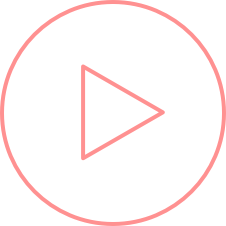
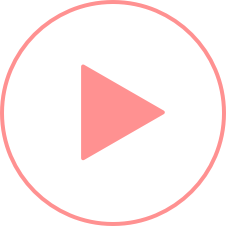
Added full javascript functionality and tweaked design (CSS) a little bit
Possible to do next:
- Fix video to pause
- Add a drop magnet and play from it

Changed region(s): [[0.3717, 0.3097, 0.7124, 0.6814]]

diff --git a/www/js/index.js b/www/js/index.js
@@ -4,41 +4,62 @@ var WebTorrent = require('webtorrent');
 var dragDrop = require('drag-drop');
 
 // Create a Torrent client
-var webTorrent = new WebTorrent();
+//var webTorrent = new WebTorrent();
 
 // Setup the menu
 var cardList = document.querySelectorAll('.card');
+var playBtn = document.querySelector('.play-btn');
 var close = document.querySelector('.close');
 
-const videoPlayer = document.querySelector('video');
 
+
+// Scripts
+
+
+
+// Runs a loop of the cards and gets an array
 for (let card of cardList) {
 
-    var cardClick = card.addEventListener('click', (event) => {
+    playBtn.addEventListener('click', (event) => {
 
-        console.log('Start torrent process')
-
-        // If video is active, return out of function
-        if (card.isActive) {
-            close.addEventListener('click', function ()  {
-                console.log('Close video player');
+        // If the player is visible, the closing button will appear
+        //if (card.isActive) {
+        //    return;
+        // }
+        /* else {
+            // Sets the display of close and the appended video of none
+            close.addEventListener('click', function () {
+                console.log('Close this shit and pause')
+                document.querySelector('video').pause();
+                close.style.display = 'none';
+                // document.querySelector('video').style.display = 'none';
             })
+        } */
 
-            return;
-        }
+        // card.isActive = true;
 
-        var video = document.querySelector('video');
-
-        card.isActive = true;
-
-
+        // Selects the custom magnet attribute and starts the playTorrent function
         var magnet = card.getAttribute('ht-magnet');
         playTorrent(magnet, card);
     });
 };
 
-function playTorrent(magnet, target) {
 
+
+/*
+function playerLoaded() {
+    
+    if(video === paused) {
+        resumeVideoPlaying(); //DERP
+    }
+}
+*/
+
+// Starts the function to convert a magnet to a .mp4 file and ready to stream directly
+function playTorrent(magnet, target) {
+    
+    var webTorrent = new WebTorrent();
+    
     webTorrent.add(magnet, function (torrent) {
 
         // Torrents can contain many files. Let's use the .mp4 file
@@ -46,57 +67,29 @@ function playTorrent(magnet, target) {
             return file.name.endsWith('.mp4');
         });
 
-        if (target.isActive) {
-            console.log('Close appears');
-            close.classList.toggle('hidden');
-        }
-
-        setInterval(function () {
-            var dlProgress = (torrent.downloaded / 1024);
-            var dlProgress = (dlProgress / 1024);
-            var dlProgress = dlProgress.toFixed(1);
-            console.log(dlProgress + ' megabyte is downloaded');
-        }, 1000);
-
-        console.log('Movie playing');
-
+        // Appends a file to the video player and sets the video player display to relative
         file.appendTo(target);
+        
+        console.log('Movie is playing');
+        
+        close.classList.toggle('hidden');
+        close.addEventListener('mousedown', () => {
+            var video = target.querySelector('video');
+            if(video != null) {
+                video.parentNode.removeChild(video);
+                close.classList.toggle('hidden');
+                console.log('Movie has stopped playing');
+            }
+        });
     });
 };
 
 
 
-close.addEventListener('click', function () {
-
-    console.log('Close this shit');
-
-})
-
-
 // Allow drag and drop function to the client
-var uploadCard = document.querySelector('.upload-card');
-
-// When user drops files on the browser, create a new torrent and start seeding it!
+// When a user drops files in the div, it creates a magnet URI and starts to seed it
 dragDrop('.upload-card', function (files) {
     webTorrent.seed(files, function (torrent) {
         document.querySelector('h3').innerHTML = "Here is your magnet link:" + '<br>' + '<br>' + torrent.magnetURI;
     })
 })
-
-
-/*
-
-// Add functions to pause and play video
-var videoPlayer = document.querySelector('video');
-
-function pauseVideo()  {
-    console.log('Video is paused');
-    videoPlayer.pause();
-}
-
-function playVideo()  {
-    videoPlayer.play();
-    console.log('Video is resumed');
-}
-
-*/

diff --git a/www/index.html b/www/index.html
@@ -20,6 +20,9 @@
 
 
             <div class="card sintel" ht-magnet="magnet:?xt=urn:btih:08ada5a7a6183aae1e09d831df6748d566095a10&dn=Sintel&tr=udp%3A%2F%2Fexplodie.org%3A6969&tr=udp%3A%2F%2Ftracker.coppersurfer.tk%3A6969&tr=udp%3A%2F%2Ftracker.empire-js.us%3A1337&tr=udp%3A%2F%2Ftracker.leechers-paradise.org%3A6969&tr=udp%3A%2F%2Ftracker.opentrackr.org%3A1337&tr=wss%3A%2F%2Ftracker.btorrent.xyz&tr=wss%3A%2F%2Ftracker.fastcast.nz&tr=wss%3A%2F%2Ftracker.openwebtorrent.com&ws=https%3A%2F%2Fwebtorrent.io%2Ftorrents%2F&xs=https%3A%2F%2Fwebtorrent.io%2Ftorrents%2Fsintel.torrent">
+                <div class="card-hover-overlay"></div>
+
+                <div class="play-btn"></div>
 
                 <div class="close hidden"></div>
 
@@ -35,15 +38,19 @@
                     <!-- <span class="file-size">356 MB</span> -->
 
                 </div>
+
+
             </div>
 
 
 
             <div class="card interstellar" ht-magnet="magnet:?xt=urn:btih:89599BF4DC369A3A8ECA26411C5CCF922D78B486&dn=Interstellar+%282014%29+%5B1080p%5D+%5BYTS.AG%5D&tr=udp%3A%2F%2Fglotorrents.pw%3A6969%2Fannounce&tr=udp%3A%2F%2Ftracker.openbittorrent.com%3A80&tr=udp%3A%2F%2Ftracker.coppersurfer.tk%3A6969&tr=udp%3A%2F%2Ftracker.leechers-paradise.org%3A6969&tr=udp%3A%2F%2Fp4p.arenabg.ch%3A1337&tr=udp%3A%2F%2Ftracker.internetwarriors.net%3A1337">
 
-                <div class="close hidden"></div>
+                <div class="card-hover-overlay"></div>
 
                 <div class="play-btn"></div>
+
+                <div class="close hidden"></div>
 
                 <div class="movie-info">
                     <h2>Movie</h2>
@@ -62,6 +69,10 @@
 
 
             <div class="card warcraft" ht-magnet="magnet:?xt=urn:btih:1B5AD195A79DFC49DA7876BDBA4D22274E1BCAB7&dn=Warcraft+%282016%29+%5B1080p%5D+%5BYTS.AG%5D&tr=udp%3A%2F%2Fglotorrents.pw%3A6969%2Fannounce&tr=udp%3A%2F%2Ftracker.openbittorrent.com%3A80&tr=udp%3A%2F%2Ftracker.coppersurfer.tk%3A6969&tr=udp%3A%2F%2Ftracker.leechers-paradise.org%3A6969&tr=udp%3A%2F%2Fp4p.arenabg.ch%3A1337&tr=udp%3A%2F%2Ftracker.internetwarriors.net%3A1337">
+
+                <div class="card-hover-overlay"></div>
+
+                <div class="play-btn"></div>
 
                 <div class="close hidden"></div>
 
@@ -83,6 +94,10 @@
 
             <div class="card bunny" ht-magnet="magnet:?xt=urn:btih:88594AAACBDE40EF3E2510C47374EC0AA396C08E&dn=bbb_sunflower_1080p_30fps_normal.mp4&tr=udp%3a%2f%2ftracker.openbittorrent.com%3a80%2fannounce&tr=udp%3a%2f%2ftracker.publicbt.com%3a80%2fannounce&ws=http%3a%2f%2fdistribution.bbb3d.renderfarming.net%2fvideo%2fmp4%2fbbb_sunflower_1080p_30fps_normal.mp4">
 
+                <div class="card-hover-overlay"></div>
+
+                <div class="play-btn"></div>
+
                 <div class="close hidden"></div>
 
                 <div class="movie-info">
@@ -103,6 +118,10 @@
 
             <div class="card skyfall" ht-magnet="magnet:?xt=urn:btih:188AA63C64E1D6B64B74F5BE36CB9244C08A3456&dn=Skyfall+%282012%29+%5B1080p%5D+%5BYTS.AG%5D&tr=udp%3A%2F%2Fglotorrents.pw%3A6969%2Fannounce&tr=udp%3A%2F%2Ftracker.openbittorrent.com%3A80&tr=udp%3A%2F%2Ftracker.coppersurfer.tk%3A6969&tr=udp%3A%2F%2Ftracker.leechers-paradise.org%3A6969&tr=udp%3A%2F%2Fp4p.arenabg.ch%3A1337&tr=udp%3A%2F%2Ftracker.internetwarriors.net%3A1337">
 
+                <div class="card-hover-overlay"></div>
+
+                <div class="play-btn"></div>
+
                 <div class="close hidden"></div>
 
                 <div class="movie-info">
@@ -122,6 +141,10 @@
 
 
             <div class="card civil-war" ht-magnet="magnet:?xt=urn:btih:89925FB48CAE260801F35FB7175530BF6E5E055A&dn=Captain+America%3A+Civil+War+%282016%29+%5B1080p%5D+%5BYTS.AG%5D&tr=udp%3A%2F%2Fglotorrents.pw%3A6969%2Fannounce&tr=udp%3A%2F%2Ftracker.openbittorrent.com%3A80&tr=udp%3A%2F%2Ftracker.coppersurfer.tk%3A6969&tr=udp%3A%2F%2Ftracker.leechers-paradise.org%3A6969&tr=udp%3A%2F%2Fp4p.arenabg.ch%3A1337&tr=udp%3A%2F%2Ftracker.internetwarriors.net%3A1337">
+
+                <div class="card-hover-overlay"></div>
+
+                <div class="play-btn"></div>
 
                 <div class="close hidden"></div>
 

diff --git a/www/css/main.css b/www/css/main.css
@@ -56,6 +56,9 @@ body {
 
 .card {
     -webkit-app-region: no-drag;
+    display: flex;
+    align-items: center;
+    justify-content: center;
     position: relative;
     width: 740px;
     height: 260px;
@@ -68,10 +71,61 @@ body {
     transform: scale(1.02);
     box-shadow: 8px 32px 45px rgba(42, 42, 42, 0.46);
     transition: .5s ease-out;
+    background-color: black;
+}
+
+.card-hover-overlay {
+    background-color: #1c1c1c;
+    position: absolute;
+    width: 100%;
+    height: 100%;
+    opacity: 0;
+    transition: .5s ease-in;
+}
+
+.play-btn {
+    background-image: url(../images/play.png);
+    background-repeat: no-repeat;
+    background-size: 100%;
+    background-position: center;
+    position: absolute;
+    width: 70px;
+    height: 70px;
+    transition: .5s ease-in;
+    border: 1px solid #FF9191;
+    border-radius: 50%;
+    cursor: pointer;
+    opacity: 0;
+}
+
+.card:hover > .play-btn {
+    transform: scale(1.3);
+    opacity: .8;
+    transition: .5s ease-out;
+}
+
+.card:hover > .card-hover-overlay {
+    opacity: .8;
+    transition: .5s ease-out;
+}
+
+.close {
+    background-image: url(../images/close-btn.png);
+    background-repeat: no-repeat;
+    background-size: contain;
+    position: absolute;
+    top: 20px;
+    right: 0;
+    width: 30px;
+    height: 30px;
+    z-index: 2;
+    margin-right: 20px;
+    cursor: pointer;
 }
 
 .movie-info {
-    position: relative;
+    flex: none;
+    position: absolute;
     top: 150px;
     margin: 0 auto;
     width: 700px;
@@ -117,8 +171,6 @@ p {
     font-weight: 100;
 }
 
-.play-btn {}
-
 .file-size {
     margin-top: 20px;
     float: right;
@@ -161,6 +213,7 @@ p {
 
 .upload-card {
     -webkit-app-region: no-drag;
+    user-select: text;
     position: relative;
     display: flex;
     justify-content: center;
@@ -200,10 +253,11 @@ a {
 /* CSS for video player and containing elements */
 
 video {
+    display: block;
     -webkit-app-region: no-drag;
-    position: relative;
+    position: absolute;
     background-color: black;
-    top: -90px;
+    top: -0px;
     width: 740px;
     height: 260px;
     margin: 0;
@@ -213,19 +267,6 @@ video {
 
 video::-webkit-media-controls-panel {
     background-color: rgba(0, 0, 0, 0.2);
-}
-
-.close {
-    background-image: url(../images/close-btn.png);
-    background-repeat: no-repeat;
-    background-size: contain;
-    position: absolute;
-    right: 0;
-    width: 30px;
-    height: 30px;
-    z-index: 2;
-    margin: 20px;
-    cursor: pointer;
 }
 
 .hidden {
